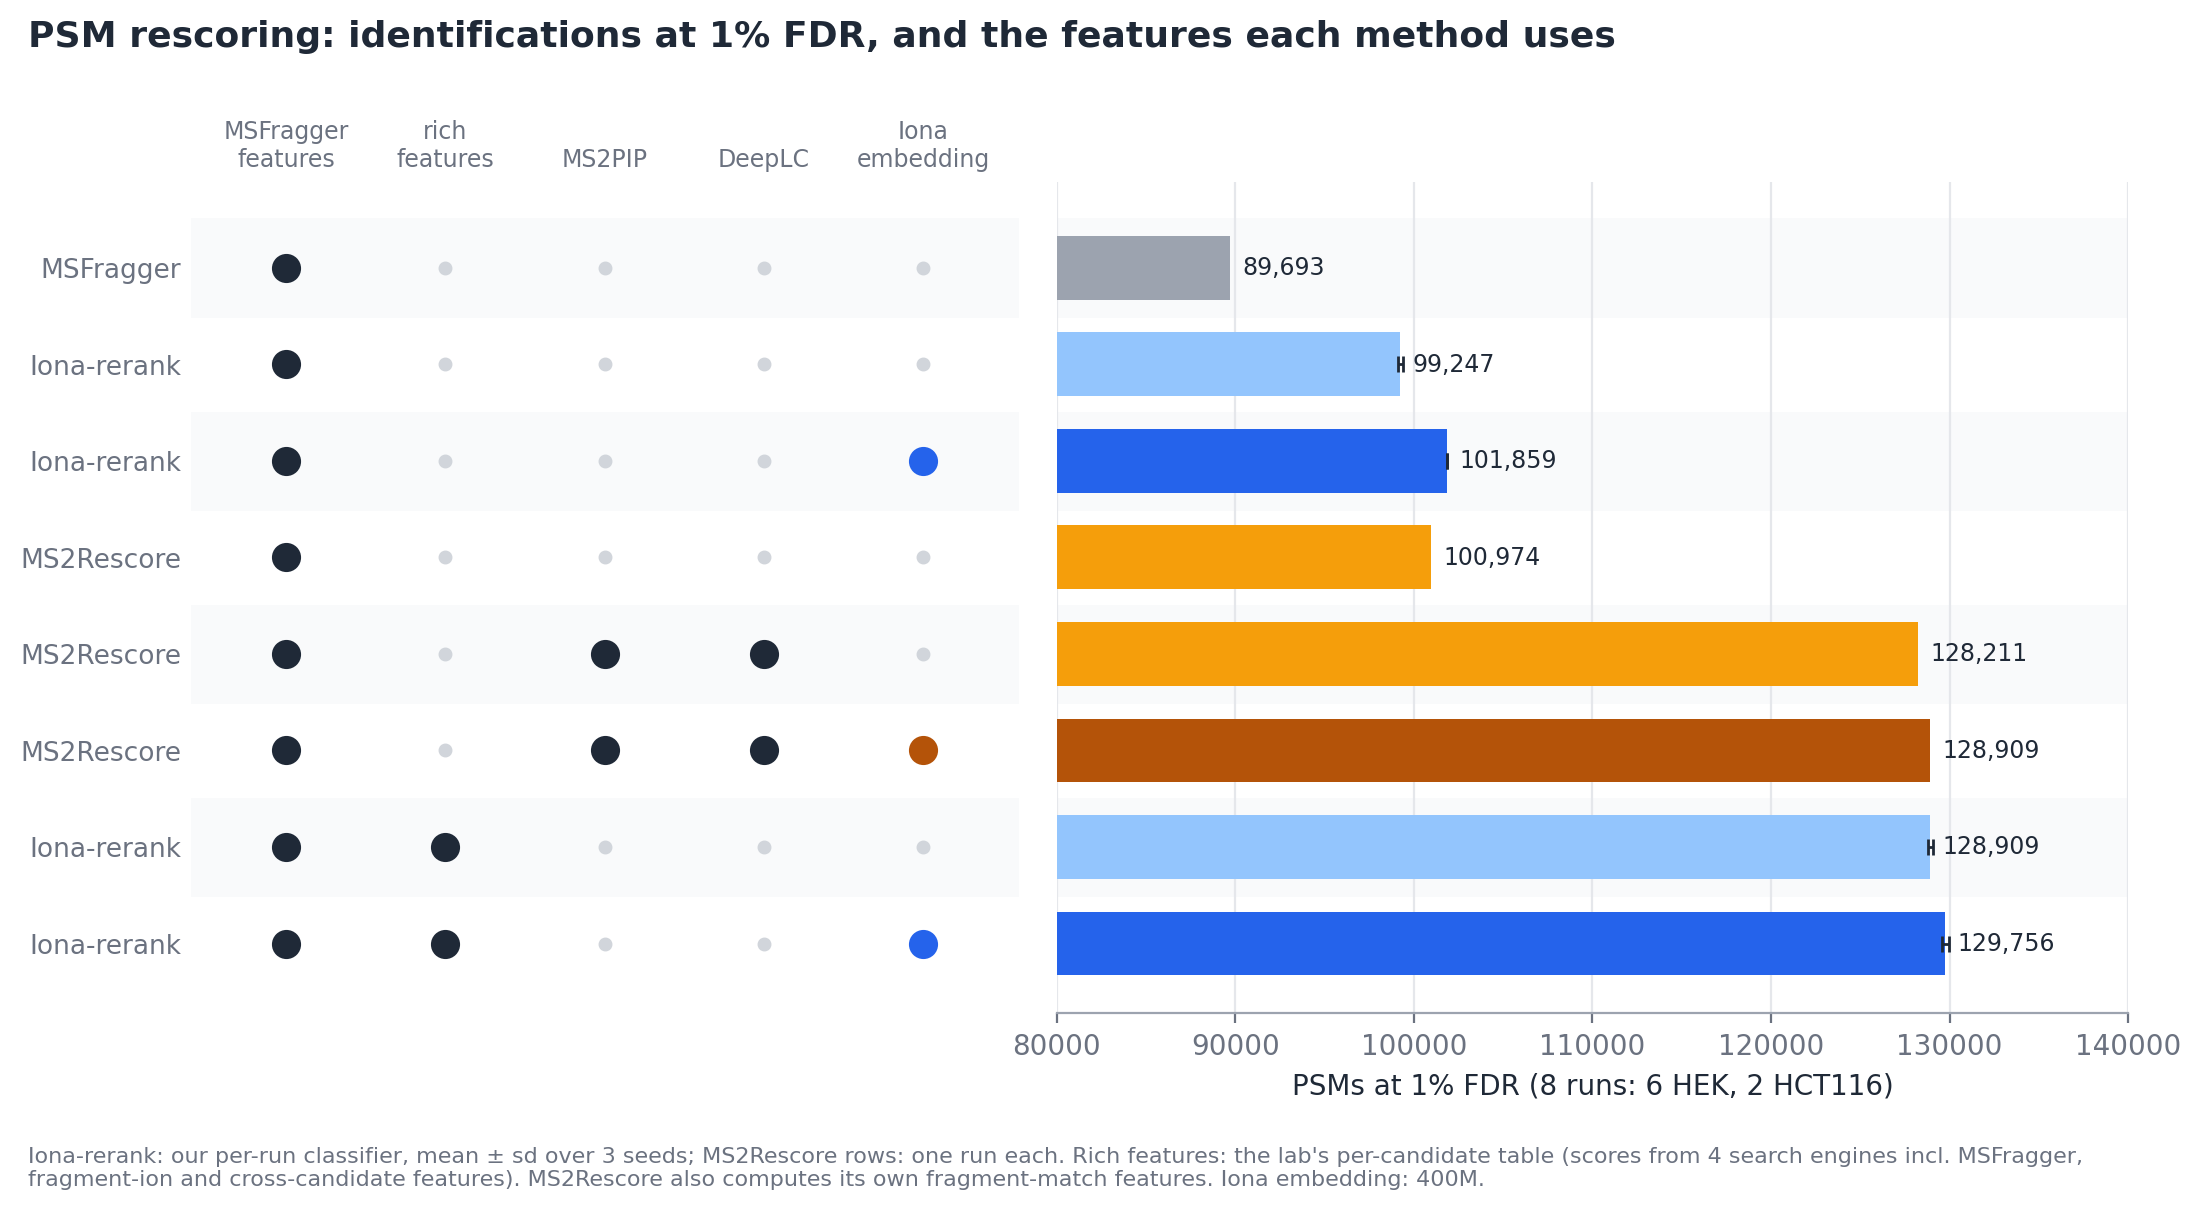
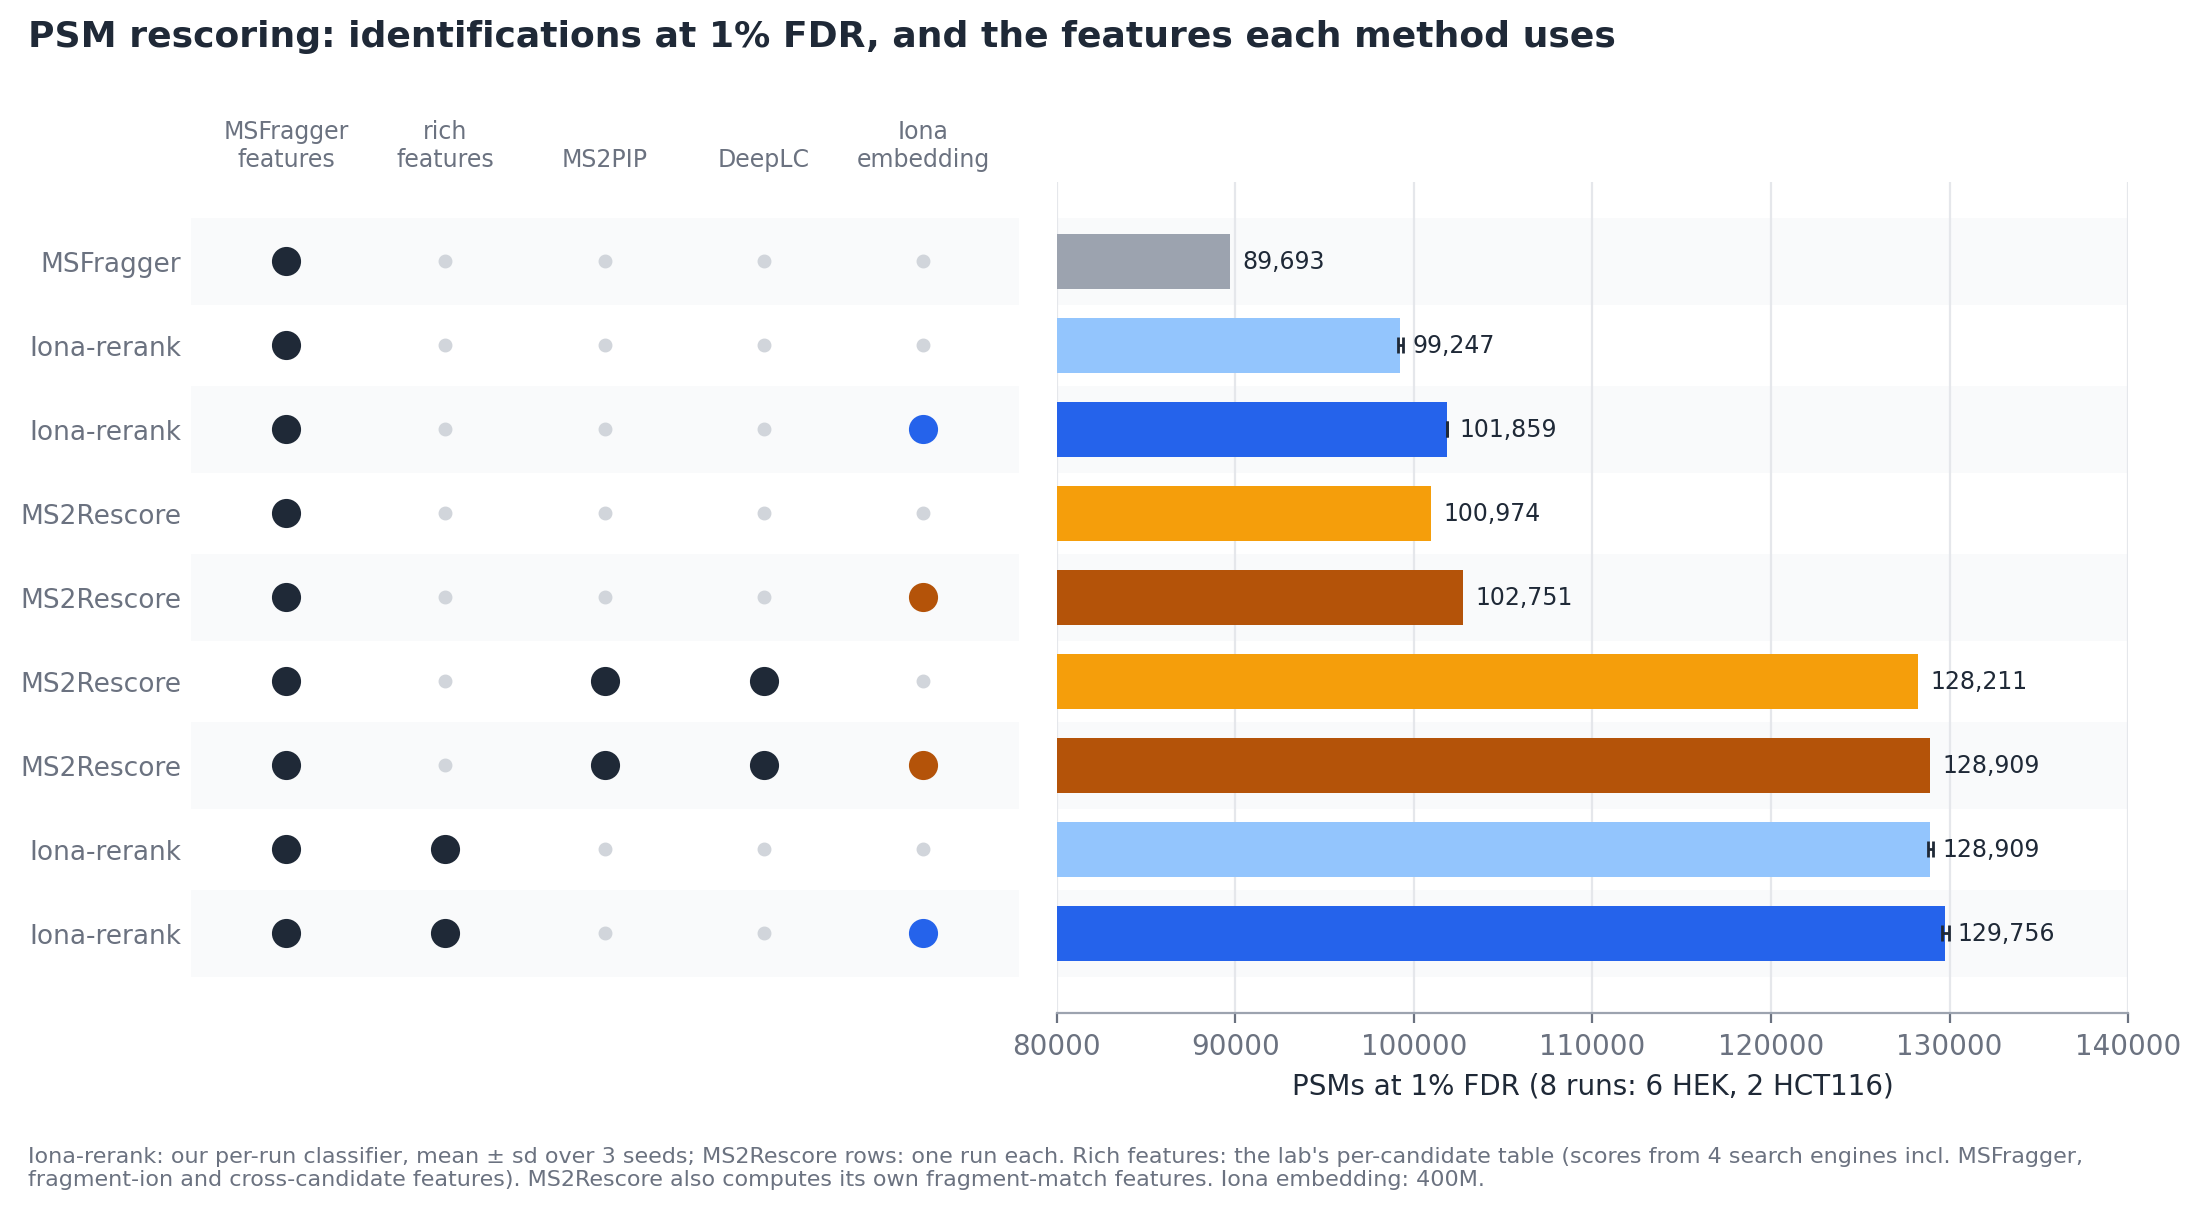
R_benchmark: add MS2Rescore, MSFragger features + Iona embedding (102,751)
Claude-Session: https://claude.ai/code/session_01ATgkXx1oRRqvzB3G8wYeta

diff --git a/sweeps/package_rerank.py b/sweeps/package_rerank.py
@@ -119,9 +119,13 @@ def benchmark_rows():
     src = EMB["A2"][1][1]
     rows.append(dict(method="MSFragger (e-value)", seed="", source=f"{src.name}:methods/all/msfragger",
                      psms=json.loads(src.read_text())["methods"]["all"]["msfragger"]["psms_1pct"]))
-    for k, lab in (("ms2rescore:searchonly", "MS2Rescore, MSFragger features"),
-                   ("ms2rescore:full", "MS2Rescore, MSFragger features + MS2PIP + DeepLC")):
-        rows.append(dict(method=lab, seed="", psms=ms2r[k]["all"]["pooled"], source=f"results_ms2rescore.json:{k}"))
+    sro = json.loads((REPO / "baselines_wip" / "results_ms2rescore_searchonly8.json").read_text())
+    k_emb = "ms2rescore:searchonly+embedding(400M teacher, cosws)"
+    for k, lab, src in (("ms2rescore:searchonly", "MS2Rescore, MSFragger features", ms2r),
+                        (k_emb, "MS2Rescore, MSFragger features + Iona embedding", sro),
+                        ("ms2rescore:full", "MS2Rescore, MSFragger features + MS2PIP + DeepLC", ms2r)):
+        fname = "results_ms2rescore_searchonly8.json" if src is sro else "results_ms2rescore.json"
+        rows.append(dict(method=lab, seed="", psms=src[k]["all"]["pooled"], source=f"{fname}:{k}"))
     emb = json.loads((REPO / "baselines_wip" / "results_ms2rescore_emb8_a2.json").read_text())
     for k, lab in (("ms2rescore:full+embedding(400M teacher, cosws)", "MS2Rescore, MSFragger features + MS2PIP + DeepLC + Iona embedding"),):
         rows.append(dict(method=lab, seed="", psms=emb[k]["all"]["pooled"], source=f"results_ms2rescore_emb8_a2.json:{k}"))

diff --git a/paper/experiments/reranking/README.md b/paper/experiments/reranking/README.md
@@ -48,7 +48,9 @@ the result file each number was read from.
 - **+ null control**: the same five features computed with the embedding of a random other spectrum
   in place of the query's. It adds the same number of features with the same distributions but no
   information about the match, so any gain it gives is an artefact of adding features.
-- **MS2Rescore** (v4.0.2): the same 8 runs, pooled 1% FDR. "MSFragger features" uses MSFragger's search
+- **MS2Rescore** (v4.0.2): the same 8 runs, pooled 1% FDR. "+ Iona embedding" adds the five Iona embedding
+  features as extra rescoring columns (MSFragger features + Iona embedding: 102,751 vs 100,974 plain and 101,007
+  with the null control, one run each). "MSFragger features" uses MSFragger's search
   features only; "+ MS2PIP + DeepLC" adds MS2PIP (predicted fragment intensities), DeepLC (predicted
   retention time) and MS2Rescore's own fragment-match features. MS2Rescore does NOT use the rich features.
 - **Seeds**: our classifier uses 3 seeds (fold assignment and initialisation) on the 8 runs; the
@@ -89,4 +91,5 @@ features.
   with rich features both read 128,909: the first is one run, the second the mean of 129,041 / 128,751 / 128,934.)
 
 Provenance: msdelta repository, `sweeps/package_rerank.py` (from `results/rerank/psm/` and
-`baselines_wip/results_ms2rescore.json`, `baselines_wip/results_ms2rescore_emb8_a2.json`).
+`baselines_wip/results_ms2rescore.json`, `baselines_wip/results_ms2rescore_emb8_a2.json`,
+`baselines_wip/results_ms2rescore_searchonly8.json`).
